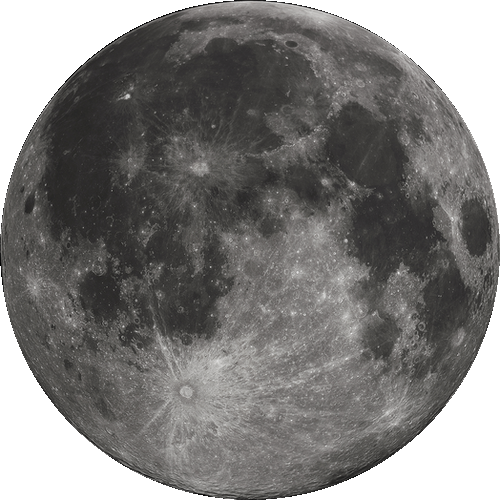
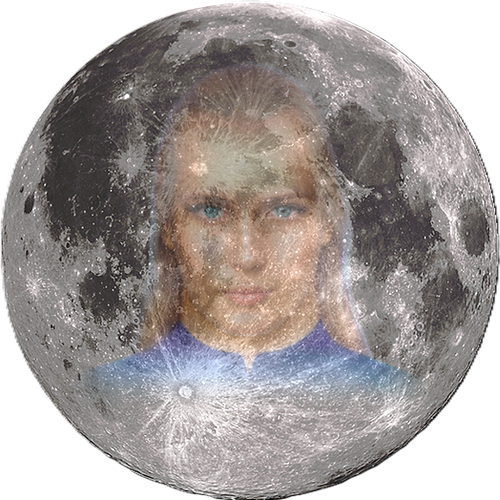
feat(assets,avisos): actualizar plantillas graficas y blindar recordatorio contra duplicados

diff --git a/centinela_youtube.py b/centinela_youtube.py
@@ -167,6 +167,28 @@ def rotar_audios_limpios(prioridad_ids: list[str] = None, limite_max: int = 10) 
     return eliminados
 
 
+def en_ventana_protegida_llamada() -> bool:
+    """Verifica si la hora actual en Colombia está en la ventana de preparación/llamada (7:15 PM a 8:15 PM).
+    Durante este intervalo se evitan reinicios en Render postergando el git push."""
+    try:
+        from datetime import datetime
+        from zoneinfo import ZoneInfo
+        ahora = datetime.now(ZoneInfo("America/Bogota"))
+        minutos = ahora.hour * 60 + ahora.minute
+        return (19 * 60 + 15) <= minutos <= (20 * 60 + 15)
+    except Exception:
+        return False
+
+
+def hay_commits_pendientes_push() -> bool:
+    """Verifica si hay commits locales pendientes de enviar a origin/main."""
+    try:
+        res = subprocess.run(["git", "log", "origin/main..HEAD", "--oneline"], capture_output=True, text=True)
+        return bool(res.stdout.strip())
+    except Exception:
+        return False
+
+
 def ejecutar_ciclo(args) -> bool:
     os.makedirs(CARP_MED, exist_ok=True)
     vistos = cargar_vistos()
@@ -296,20 +318,31 @@ def ejecutar_ciclo(args) -> bool:
 
             res_c = subprocess.run(["git", "commit", "-m", msg], capture_output=True, text=True)
             if res_c.returncode == 0:
-                print("   ✅ Commit creado.")
+                print("   ✅ Commit creado localmente.")
+            else:
+                print(f"   ℹ Sin cambios pendientes para commit: {res_c.stdout.strip()}")
+        except Exception as e_git:
+            print(f"   ⚠ Error preparando commit en Git: {e_git}")
+
+    # Empujar a GitHub si no estamos en la ventana protegida de la videollamada
+    if not args.no_push and hay_commits_pendientes_push():
+        if en_ventana_protegida_llamada():
+            print("\n⏸ En ventana protegida de videollamada (7:15 PM - 8:15 PM Colombia).")
+            print("   Se posterga el 'git push' a GitHub para no reiniciar el bot en Render.")
+            print("   Se sincronizará automáticamente en el próximo ciclo después de las 8:15 PM.")
+        else:
+            print("\n🚀 Sincronizando repositorio con GitHub (origin/main)...")
+            try:
                 subprocess.run(["git", "pull", "--rebase", "origin", "main"], check=False)
                 res_p = subprocess.run(["git", "push", "origin", "main"], capture_output=True, text=True)
                 if res_p.returncode == 0:
                     print("   ✅ Push exitoso a GitHub. Render comenzará el despliegue con el audio listo.")
                 else:
                     print(f"   ⚠ Error en git push: {res_p.stderr.strip()}")
-            else:
-                print(f"   ℹ Sin cambios pendientes para commit: {res_c.stdout.strip()}")
-        except Exception as e_git:
-            print(f"   ⚠ Error sincronizando con Git: {e_git}")
-    else:
-        if not hay_cambios:
-            print("✨ El repositorio ya está en su estado óptimo. No se requirieron cambios.")
+            except Exception as e_push:
+                print(f"   ⚠ Error al hacer push: {e_push}")
+    elif not hay_cambios and not hay_commits_pendientes_push():
+        print("✨ El repositorio ya está en su estado óptimo. No se requirieron cambios.")
 
     return hay_cambios
 

diff --git a/bot_comandos.py b/bot_comandos.py
@@ -1756,6 +1756,33 @@ def generar_banner_aviso_previo(ruta_salida: str, info_tarea: dict = None) -> st
 
 _LOCK_AVISO = threading.Lock()
 _FECHA_ULTIMO_AVISO_AUTO: str | None = None
+RUTA_ULTIMO_AVISO = os.path.join("data", "meditaciones", "ultimo_aviso_previo.json")
+
+
+def _cargar_fecha_ultimo_aviso() -> str | None:
+    """Lee del disco la fecha del último aviso enviado para no repetir tras reinicios."""
+    if os.path.exists(RUTA_ULTIMO_AVISO):
+        try:
+            with open(RUTA_ULTIMO_AVISO, "r", encoding="utf-8") as f:
+                d = json.load(f)
+                return d.get("fecha")
+        except Exception:
+            pass
+    return None
+
+
+def _guardar_fecha_ultimo_aviso(fecha: str, msg_id: int | None = None) -> None:
+    """Persiste en disco la fecha del aviso enviado con timestamp y message_id."""
+    try:
+        os.makedirs(os.path.dirname(RUTA_ULTIMO_AVISO), exist_ok=True)
+        with open(RUTA_ULTIMO_AVISO, "w", encoding="utf-8") as f:
+            json.dump({
+                "fecha": fecha,
+                "timestamp": datetime.now(ZoneInfo("America/Bogota")).isoformat(),
+                "message_id": msg_id
+            }, f, indent=2)
+    except Exception as e:
+        log_debug(f"Error guardando fecha de ultimo aviso en disco: {e}")
 
 
 def enviar_aviso_preparacion_sala(target_chat_id=None, forzar=False) -> int | None:
@@ -1768,12 +1795,15 @@ def enviar_aviso_preparacion_sala(target_chat_id=None, forzar=False) -> int | No
 
     fecha_hoy = datetime.now(ZoneInfo("America/Bogota")).strftime("%Y-%m-%d")
     with _LOCK_AVISO:
-        if not forzar and _FECHA_ULTIMO_AVISO_AUTO == fecha_hoy:
-            log_debug("Aviso previo ya enviado hoy; se omite duplicado")
+        fecha_disco = _cargar_fecha_ultimo_aviso()
+        if not forzar and (_FECHA_ULTIMO_AVISO_AUTO == fecha_hoy or fecha_disco == fecha_hoy):
+            log_debug("Aviso previo ya enviado hoy (memoria o disco); se omite duplicado")
             return None
         m_id = _enviar_aviso_preparacion_sala_impl(cid)
         if m_id:
-            if not forzar: _FECHA_ULTIMO_AVISO_AUTO = fecha_hoy
+            if not forzar:
+                _FECHA_ULTIMO_AVISO_AUTO = fecha_hoy
+                _guardar_fecha_ultimo_aviso(fecha_hoy, m_id)
         return m_id
 
 
@@ -2830,8 +2860,12 @@ def escuchar_comandos() -> None:
             try:
                 ahora = datetime.now(tz_col)
                 minutos = ahora.hour * 60 + ahora.minute
-                en_ventana = (19 * 60 + 26) <= minutos <= (19 * 60 + 45)
-                ya_enviado = _FECHA_ULTIMO_AVISO_AUTO == ahora.strftime("%Y-%m-%d")
+                # Ventana estricta: 7:26 PM - 7:28 PM (máximo 2 min de tolerancia, evita avisos tardíos tras reinicio)
+                en_ventana = (19 * 60 + 26) <= minutos <= (19 * 60 + 28)
+                ya_enviado = (
+                    _FECHA_ULTIMO_AVISO_AUTO == ahora.strftime("%Y-%m-%d")
+                    or _cargar_fecha_ultimo_aviso() == ahora.strftime("%Y-%m-%d")
+                )
                 if en_ventana and not ya_enviado and time.time() - ultimo_intento >= 60:
                     ultimo_intento = time.time()
                     log_debug("⏰ Disparando aviso previo automático de preparación (7:26 PM)...")
